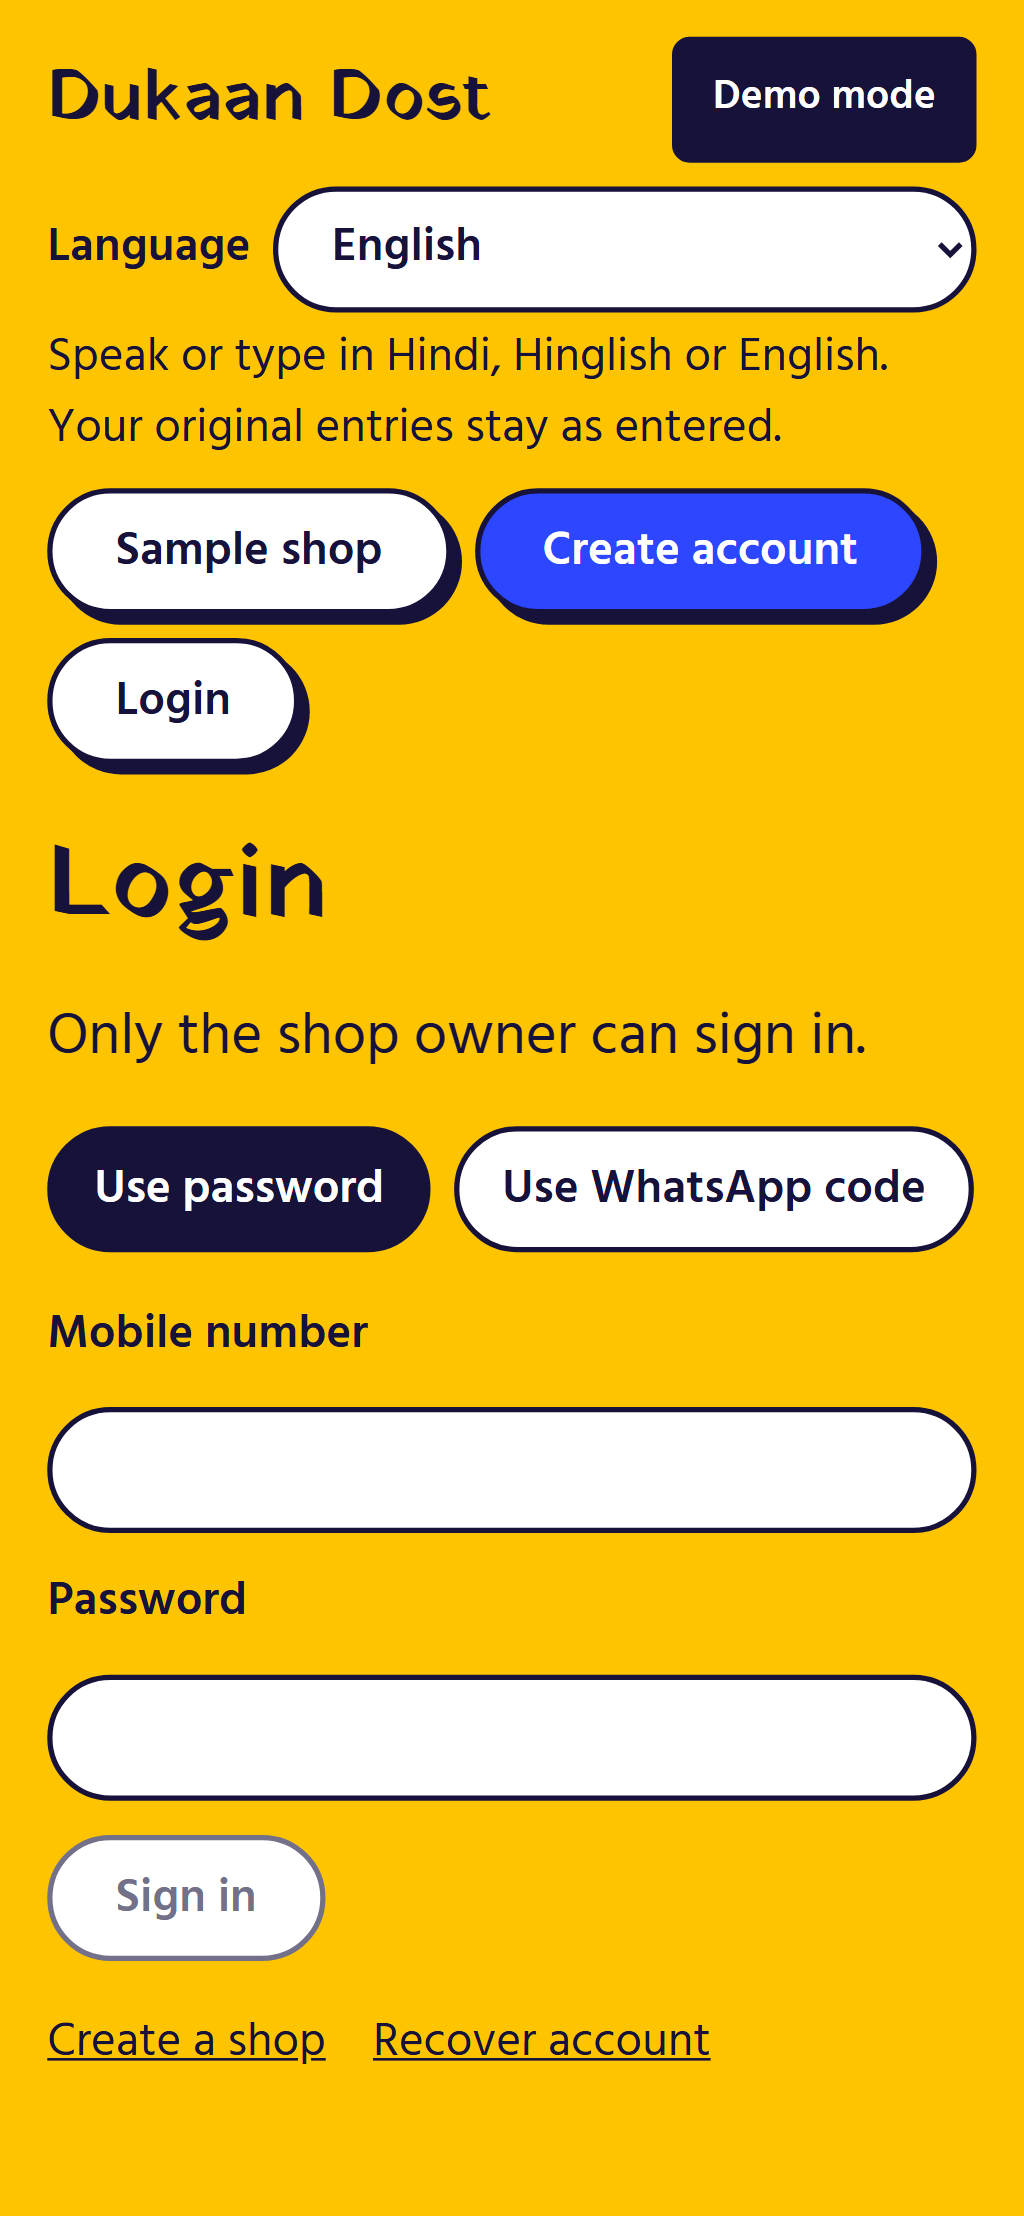
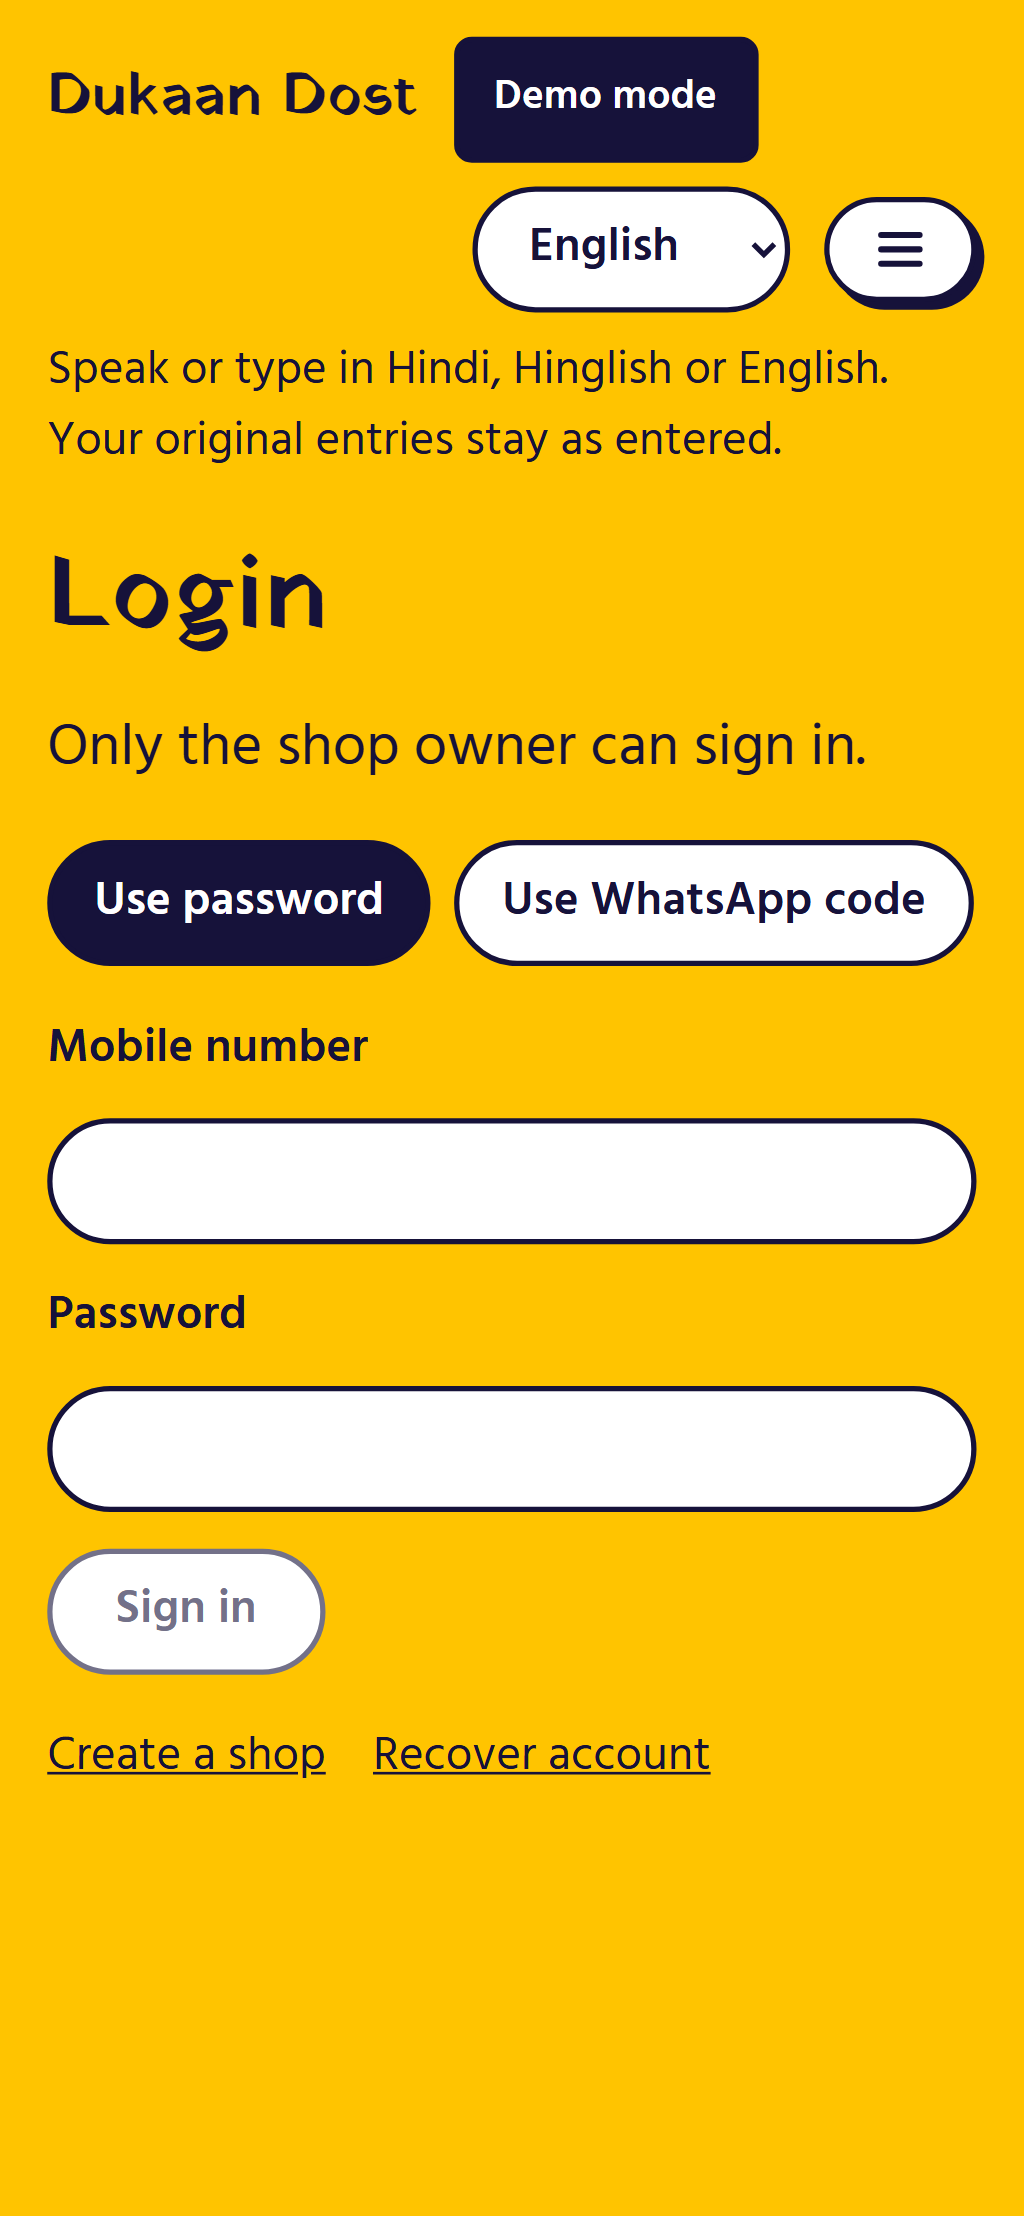
Rework header: compact buttons, right-aligned language select, mobile menu, tidy install bar

diff --git a/src/components/NavBar.tsx b/src/components/NavBar.tsx
@@ -1,7 +1,7 @@
 "use client";
 
 import Link from "next/link";
-import { useEffect, useState } from "react";
+import { useEffect, useRef, useState } from "react";
 import { useLocale, useCopy } from "./LocaleProvider";
 import { api, post, ApiError, type Me } from "@/lib/client/api";
 
@@ -12,6 +12,7 @@ export function NavBar() {
   const [me, setMe] = useState<(Me & { visitorDemo?: boolean }) | null>(null);
   const [expiredDemo, setExpiredDemo] = useState(false);
   const [exitFailed, setExitFailed] = useState(false);
+  const menu = useRef<HTMLDivElement>(null);
   useEffect(() => {
     api
       .me()
@@ -33,38 +34,43 @@ export function NavBar() {
   }
 
   return (
-    <nav aria-label={t("mainNav")} className="flex min-h-[48px] w-full flex-wrap items-center gap-2 md:w-auto">
-      {expiredDemo ? <><Link href="/try" className="btn">{L("Restart sample", "Sample dobara kholo")}</Link><button className="btn" type="button" onClick={() => void leaveDemo()}>{L("Exit sample", "Sample se bahar")}</button></> : me?.visitorDemo ? <>
-        <Link href="/try" className="btn">{t("sampleShop")}</Link>
-        <Link href="/shop" className="btn btn-primary">{L("Sample ledger", "Sample khata")}</Link>
-        <Link href="/signup" className="btn">{L("Create account", "Naya account")}</Link>
-        <button className="btn" type="button" onClick={() => void leaveDemo()}>{L("Exit sample", "Sample se bahar")}</button>
+    <nav aria-label={t("mainNav")}>
+      <button type="button" className="btn btn-sm menu-toggle" popoverTarget="site-menu" aria-label={L("Menu", "Menu")} data-testid="menu-button">
+        <svg aria-hidden="true" viewBox="0 0 24 24" width="22" height="22" fill="none" stroke="currentColor" strokeWidth="2.5" strokeLinecap="round"><path d="M4 6h16M4 12h16M4 18h16" /></svg>
+      </button>
+      <div id="site-menu" popover="auto" ref={menu} className="nav-menu" onClick={(event) => { if ((event.target as HTMLElement).closest("a")) { try { menu.current?.hidePopover(); } catch { /* already closed */ } } }}>
+      {expiredDemo ? <><Link href="/try" className="btn btn-sm">{L("Restart sample", "Sample dobara kholo")}</Link><button className="btn btn-sm" type="button" onClick={() => void leaveDemo()}>{L("Exit sample", "Sample se bahar")}</button></> : me?.visitorDemo ? <>
+        <Link href="/try" className="btn btn-sm">{t("sampleShop")}</Link>
+        <Link href="/shop" className="btn btn-sm btn-primary">{L("Sample ledger", "Sample khata")}</Link>
+        <Link href="/signup" className="btn btn-sm">{L("Create account", "Naya account")}</Link>
+        <button className="btn btn-sm" type="button" onClick={() => void leaveDemo()}>{L("Exit sample", "Sample se bahar")}</button>
       </> : !me || !me.authRequired ? (
         <>
-          <Link href="/try" className="btn">
+          <Link href="/try" className="btn btn-sm">
             {t("sampleShop")}
           </Link>
-          <Link href="/shop" className="btn btn-primary">
+          <Link href="/shop" className="btn btn-sm btn-primary">
             {t("myShop")}
           </Link>
         </>
       ) : me.loggedIn ? (
         <>
-          <Link href="/shop" className="btn btn-primary">
+          <Link href="/shop" className="btn btn-sm btn-primary">
             {t("myShop")}
           </Link>
-          <button type="button" className="btn" onClick={logout} data-testid="logout">
+          <button type="button" className="btn btn-sm" onClick={logout} data-testid="logout">
             {t("logout")}
           </button>
         </>
       ) : (
         <>
-        <Link href="/try" className="btn">{t("sampleShop")}</Link>
-        <Link href="/signup" className="btn btn-primary">{L("Create account", "Naya account")}</Link>
-        <Link href="/login" className="btn" data-testid="nav-login">{t("login")}</Link>
+        <Link href="/try" className="btn btn-sm">{t("sampleShop")}</Link>
+        <Link href="/signup" className="btn btn-sm btn-primary">{L("Create account", "Naya account")}</Link>
+        <Link href="/login" className="btn btn-sm" data-testid="nav-login">{t("login")}</Link>
         </>
       )}
       {exitFailed ? <p role="alert">{L("Could not exit the sample. Check your connection and try again.", "Sample se bahar nahi nikle. Connection check karke dobara karo.")}</p> : null}
+      </div>
     </nav>
   );
 }

diff --git a/src/components/AppAvailability.tsx b/src/components/AppAvailability.tsx
@@ -30,9 +30,14 @@ export function AppAvailability() {
     try { await install.prompt(); await install.userChoice; } catch { /* browser can decline an install prompt */ }
   }
   if (!offline && !returned && !install) return null;
-  return <aside className="mx-4 mb-4 grid gap-2 border-2 border-syahi bg-safed p-3 md:mx-8" aria-label={L("Connection and installation", "Connection aur app")}>
+  return <>
+    {offline || returned ? <aside className="mx-4 mb-4 grid gap-2 border-2 border-syahi bg-safed p-3 md:mx-8" aria-label={L("Connection", "Connection")}>
     {offline ? <p role="status">{L("You are offline. No ledger entry or message will be sent. Keep a typed draft in this tab, then reconnect and review it.", "Net band hai. Koi entry ya message nahi bhejenge. Isi tab mein likha draft rakho, phir net aane par check karo.")}</p> : returned ? <div className="flex flex-wrap items-center gap-3"><p role="status">{L("Connection returned. Reload records before confirming. Nothing was sent automatically.", "Net aa gaya. Confirm karne se pehle hisaab dobara kholo. Apne aap kuch nahi bheja.")}</p><button className="chip" onClick={() => window.location.reload()}>{L("Reload records", "Hisaab dobara kholo")}</button><button className="chip" onClick={() => setReturned(false)}>{L("Dismiss", "Band karo")}</button></div> : null}
-    {install ? <button className="btn w-fit" onClick={() => void installApp()}>{L("Install Dukaan Dost", "Dukaan Dost install karo")}</button> : null}
     {offline ? <Link className="underline" href="/offline.html">{L("Offline help", "Bina net ki madad")}</Link> : null}
-  </aside>;
+    </aside> : null}
+    {install ? <aside className="mx-4 mb-4 flex items-center justify-between gap-3 rounded-2xl border-2 border-syahi bg-safed px-4 py-2 md:mx-8" aria-label={L("Install app", "App install karo")}>
+      <p className="text-base font-semibold">{L("Keep Dukaan Dost on your home screen.", "Dukaan Dost ko home screen par rakho.")}</p>
+      <button type="button" className="btn btn-sm btn-primary shrink-0" onClick={() => void installApp()}>{L("Install app", "App install karo")}</button>
+    </aside> : null}
+  </>;
 }

diff --git a/tests/e2e/real-shop.spec.ts b/tests/e2e/real-shop.spec.ts
@@ -49,7 +49,9 @@ test("setup: a wrong code is refused, the right one creates the owner and signs 
   await page.getByTestId("setup-submit").click();
   await expect(page).toHaveURL(/\/shop$/);
   await expect(page.getByRole("heading", { name: "Test Dukaan" })).toBeVisible();
+  await page.getByTestId("menu-button").click();
   await expect(page.getByTestId("logout")).toBeVisible();
+  await page.keyboard.press("Escape");
   await page.getByRole("link", { name: "Settings", exact: true }).click();
   await expect(page.getByTestId("retention-note")).toContainText("30 din");
   await expect(page.getByTestId("wa-status")).toHaveText("WhatsApp jura hua hai");
@@ -87,6 +89,7 @@ test("the signed-in owner writes an entry and sends the reminder through WhatsAp
 test("logout, then the passcode login: wrong passcode is refused, the right one gets in", async ({ page }) => {
   await signIn(page);
   await page.goto("/shop");
+  await page.getByTestId("menu-button").click();
   await page.getByTestId("logout").click();
   await expect(page).toHaveURL(/\/login$/);
   expect((await page.request.get("/api/summary")).status()).toBe(401);
@@ -116,6 +119,7 @@ test("login with a WhatsApp code: CAPTCHA, code sent to the owner only, then in"
   await page.getByTestId("wa-code").fill(code);
   await page.getByTestId("wa-verify").click();
   await expect(page).toHaveURL(/\/shop$/);
+  await page.getByTestId("menu-button").click();
   await expect(page.getByTestId("logout")).toBeVisible();
 });
 

diff --git a/src/components/LocaleProvider.tsx b/src/components/LocaleProvider.tsx
@@ -36,13 +36,15 @@ export function useLocale() {
 }
 
 export function LanguageSelector() {
-  const { locale, setLocale, t } = useLocale();
-  return <div className="grid max-w-sm gap-1"><label className="flex min-h-[48px] items-center gap-2 font-semibold">
-    <span>{t("language")}</span>
-    <select aria-label="Language / Bhasha" className="input w-auto" value={locale} onChange={(e) => setLocale(e.target.value === "en" ? "en" : "hi-Latn")}>
-      <option value="hi-Latn">Hindi / Hinglish</option><option value="en">English</option>
-    </select>
-  </label>{locale === "en" ? <p className="text-base" data-testid="language-scope">{t("languageScope")}</p> : null}</div>;
+  const { locale, setLocale } = useLocale();
+  return <select aria-label="Language / Bhasha" className="input input-sm" value={locale} onChange={(e) => setLocale(e.target.value === "en" ? "en" : "hi-Latn")}>
+    <option value="hi-Latn">Hinglish</option><option value="en">English</option>
+  </select>;
+}
+
+export function LanguageScopeNote() {
+  const { locale, t } = useLocale();
+  return locale === "en" ? <p className="w-full text-base" data-testid="language-scope">{t("languageScope")}</p> : null;
 }
 
 export function LocalizedText({ id }: { id: MessageKey }) { return useLocale().t(id); }

diff --git a/src/app/globals.css b/src/app/globals.css
@@ -190,6 +190,60 @@ h3 {
   background: var(--sindoor);
 }
 
+/* Header size: smaller than the 48px default, still a comfortable tap. */
+.btn-sm {
+  min-height: 40px;
+  padding: 0 var(--space-4);
+  font-size: 0.9375rem;
+  box-shadow: 3px 3px 0 var(--color-outline);
+}
+.input-sm {
+  width: auto;
+  min-height: 40px;
+  font-size: 0.9375rem;
+  font-weight: 600;
+}
+
+/* Header navigation: a popover panel under the menu button on phones, a plain row from md up. */
+.nav-menu {
+  inset: auto;
+  margin: 0;
+  overflow: visible;
+}
+.nav-menu:popover-open {
+  position: fixed;
+  top: 64px;
+  right: var(--space-4);
+  display: flex;
+  flex-direction: column;
+  gap: var(--space-3);
+  min-width: 220px;
+  padding: var(--space-4);
+  border: var(--border-card);
+  border-radius: 20px;
+  background: var(--safed);
+  box-shadow: var(--shadow-hard);
+}
+.nav-menu:popover-open .btn {
+  width: 100%;
+}
+@media (min-width: 768px) {
+  .menu-toggle {
+    display: none;
+  }
+  .nav-menu {
+    position: static;
+    display: flex;
+    flex-direction: row;
+    align-items: center;
+    gap: var(--space-2);
+    padding: 0;
+    border: 0;
+    background: transparent;
+    box-shadow: none;
+  }
+}
+
 .chip {
   display: inline-flex;
   align-items: center;

diff --git a/src/components/Header.tsx b/src/components/Header.tsx
@@ -1,7 +1,7 @@
 "use client";
 
 import Link from "next/link";
-import { LanguageSelector, useLocale } from "./LocaleProvider";
+import { LanguageScopeNote, LanguageSelector, useLocale } from "./LocaleProvider";
 import { DemoTag } from "./DemoTag";
 import { NavBar } from "./NavBar";
 import { AppAvailability } from "./AppAvailability";
@@ -9,13 +9,16 @@ import { AppAvailability } from "./AppAvailability";
 export function Header() {
   const { t } = useLocale();
   return (
-    <><header className="flex flex-wrap items-center justify-between gap-x-3 gap-y-2 px-4 py-3 md:px-8">
-      <Link href="/" className="font-display text-2xl text-syahi no-underline" aria-label={t("home")}>
+    <><header className="flex flex-wrap items-center gap-x-3 gap-y-2 px-4 py-3 md:px-8">
+      <Link href="/" className="font-display text-xl text-syahi no-underline md:text-2xl" aria-label={t("home")}>
         Dukaan Dost
       </Link>
       <DemoTag />
-      <LanguageSelector />
-      <NavBar />
+      <div className="ml-auto flex items-center gap-3">
+        <div className="order-2 md:order-1"><NavBar /></div>
+        <div className="order-1 md:order-2"><LanguageSelector /></div>
+      </div>
+      <LanguageScopeNote />
     </header><AppAvailability /></>
   );
 }

diff --git a/tests/e2e/z-public-demo.spec.ts b/tests/e2e/z-public-demo.spec.ts
@@ -10,7 +10,9 @@ test("public production trial isolates visitors, payment examples and real accou
     await page.goto("/try");
     await page.getByRole("button", { name: "Start private sample shop", exact: true }).click();
     await expect(page.locator("#typebox")).toBeVisible();
+    await page.getByTestId("menu-button").click();
     await expect(page.getByRole("button", { name: "Exit sample", exact: true })).toBeVisible();
+    await page.keyboard.press("Escape");
     expect((await context.cookies()).find((c) => c.name === "dd_demo")?.httpOnly).toBe(true);
     await page.request.post("/api/customers", { data: { name: "Fictional sample A only" } });
     const pageB = await other.newPage();

diff --git a/docs/05_LOG.md b/docs/05_LOG.md
@@ -127,3 +127,6 @@ Newest entries at the bottom. One line per event; link to the file that holds th
 - Workbook (docs shared by owner) requires a 30-60 s video ad; the 20 s cut did not qualify. Built deliverables/launch (1920x1080, 30 fps, 45 s, HyperFrames): hook, voice-to-parchi, stamp at 14.000 s (measured peak), balance and reminder, three trust rules, end card with CTA. Real app captures, fictional demo data, no voiceover.
 - Music: CC0 loop (125 to 120 BPM). SFX: CC0 Openverse set re-placed by measured peak; credits in deliverables/launch/assets/sounds/CREDITS.json. Audio measured only (-18.4 LUFS, -1.9 dBFS peak); not listened to by a human.
 - render.yaml now sets TRUST_PROXY_HOPS=1 so each visitor gets their own limiter bucket on Render. Not yet verified live: confirm after deploy that two different IPs do not share one bucket.
+
+## 2026-11-01: header rework
+- Header: removed the visible "Bhasha" label, language select moved to the far right (shows Hinglish / English), nav buttons smaller (.btn-sm, 40 px), phone width uses a menu button that opens a popover panel. Install prompt is now a slim bar with a compact button instead of a large button in the connection box. Pixel 7 e2e tests open the menu before using logout/Exit sample. Full Playwright run: 59 passed. Full pnpm verify not rerun; visual check at 390 px and 1440 px.
